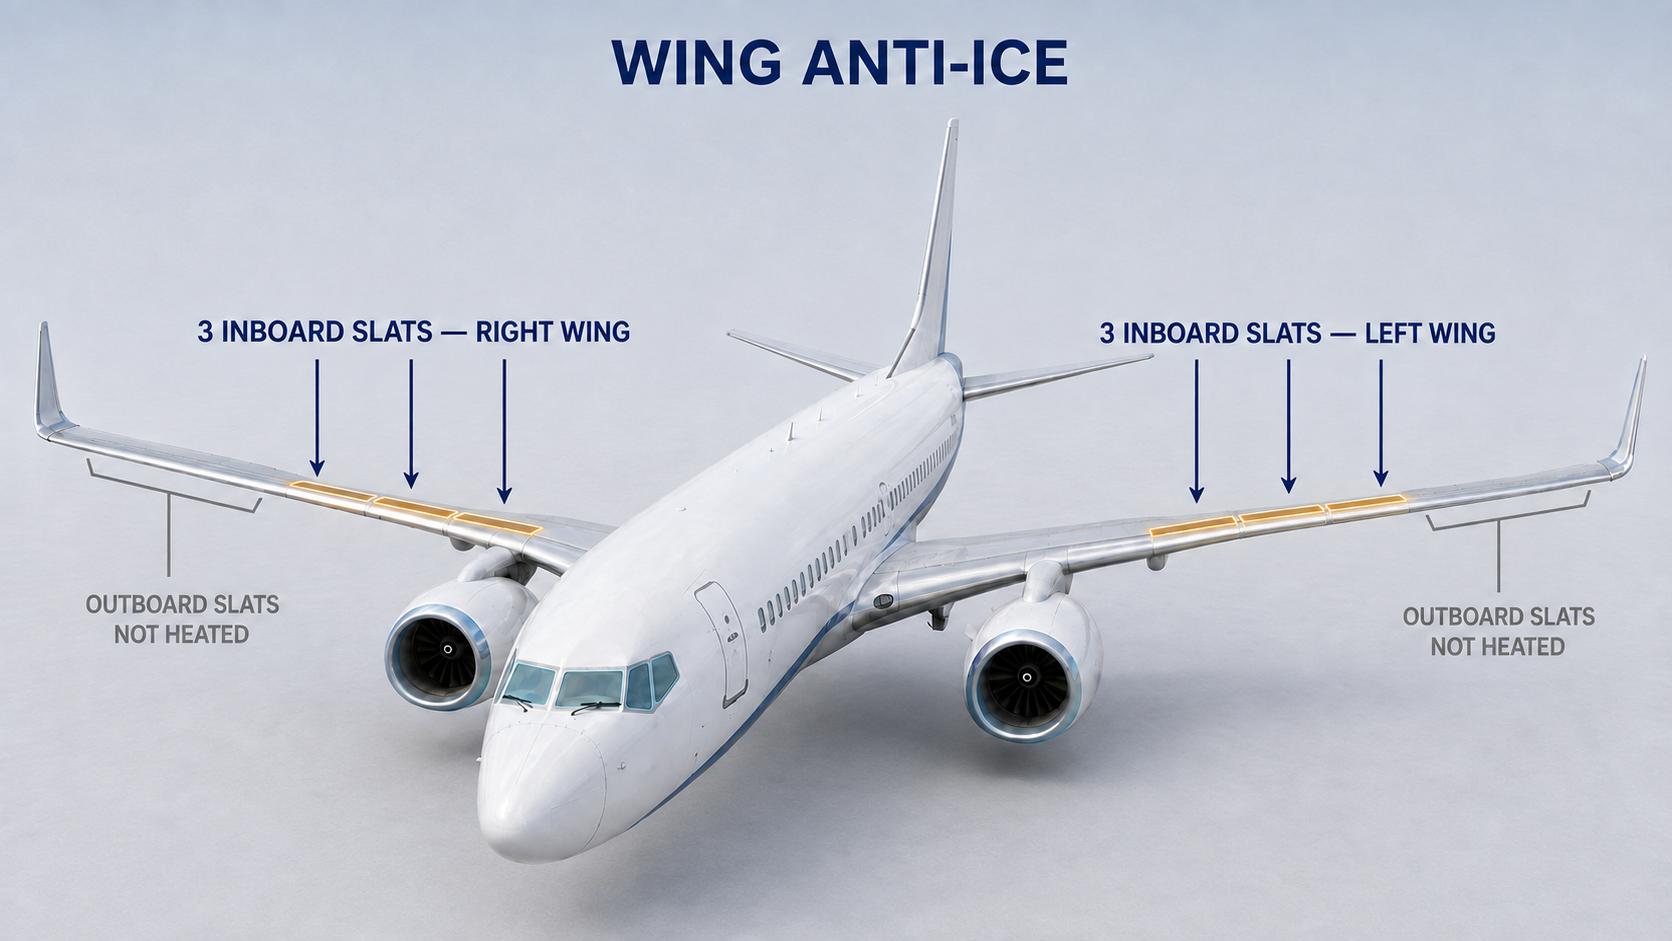
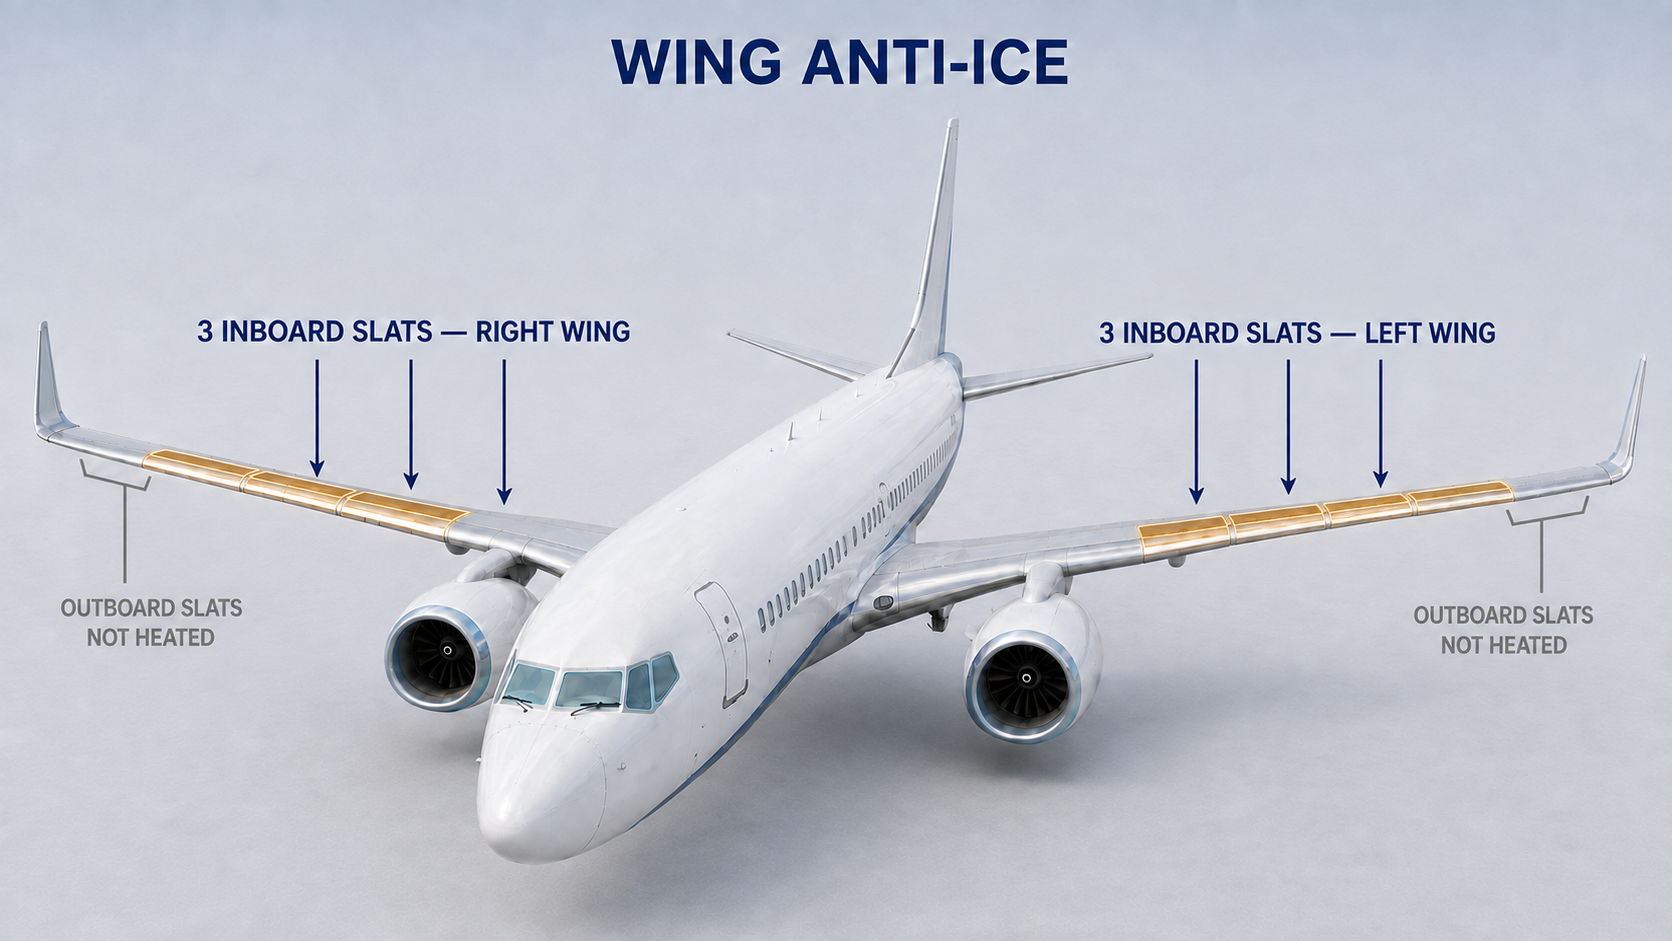
Refine anti-ice indications and imagery

diff --git a/app/systems/anti-ice-rain/page.tsx b/app/systems/anti-ice-rain/page.tsx
@@ -78,7 +78,7 @@ export default function AntiIceRain() {
               <div><strong>ON</strong><p>Illuminated green when heat is being applied to the selected window. It extinguishes when the switch is OFF, an overheat or system failure occurs, or the window reaches the correct temperature and the controller removes power.</p></div>
             </div>
             <p>The spring-loaded <strong>PWR TEST</strong> position provides a confidence test of available window heating. The <strong>OVHT</strong> position simulates an overheat condition.</p>
-            <h3>Warning</h3>
+            <h3>Warning and indications</h3>
             <div className="window-alert-card overheat-card">
               <img src="/images/window-heat-overheat.png" alt="Amber window heat OVERHEAT warning light" />
               <div><strong>OVERHEAT</strong><p>Illuminated amber when the related controller detects an overheat condition. It also illuminates if electrical power to the related window is interrupted. When a real overheat is detected, power to that window is removed automatically.</p></div>
@@ -91,7 +91,7 @@ export default function AntiIceRain() {
           <section className="course-section" id="wipers">
             <span className="section-num">03 / WIPERS</span>
             <h2>Independent left and right wipers clear the forward windows, while a permanent coating helps shed rain.</h2>
-            <div className="selector-strip"><span>PARK</span><span>INT · 7 s</span><span>LOW</span><span>HIGH</span></div>
+            <p>Each wiper selector has four positions: <strong>PARK, INT, LOW and HIGH</strong>.</p>
             <ul className="study-points"><li><strong>PARK:</strong> stops the motor and stows the blade.</li><li><strong>INT:</strong> one sweep cycle approximately every seven seconds.</li><li><strong>LOW / HIGH:</strong> continuous operation at the selected speed.</li></ul>
             <Warning title="DRY WINDSHIELD">Operating the wipers on a dry windshield can scratch the windshield.</Warning>
             <Source>NG 3.10.2, 3.20.4 · MAX 3.10.2, 3.20.3</Source>
@@ -113,7 +113,7 @@ export default function AntiIceRain() {
               <figcaption>Probe heat systems A and B, shown with AUTO / ON switches.</figcaption>
             </figure>
             <Max>The supplied MAX uses AUTO/ON probe-heat switches. Some earlier NG aircraft use OFF/ON switches and therefore have no automatic mode: the crew must select probe heat ON. Later or modified NG aircraft may also use AUTO/ON switches, so the installed panel remains the controlling reference.</Max>
-            <h3>Warning</h3>
+            <h3>Warning and indications</h3>
             <p>An amber probe-heat light means that the related probe or sensor is not being heated. It identifies loss of the expected heating function rather than the presence of ice.</p>
             <Warning title="STANDBY POWER">On standby power, only the captain’s pitot probe is heated. The CAPT PITOT light does not indicate a heater failure while operating in this configuration, and the standby airspeed pitot probe is not heated.</Warning>
             <Deep title="Go deeper · Panel effectivity"><p>The supplied NG FCOM shows both OFF/ON and AUTO/ON panels according to service-bulletin status. Always identify the installed switch positions before applying a memorized flow.</p></Deep>
@@ -134,7 +134,7 @@ export default function AntiIceRain() {
             <p><strong>In flight,</strong> selecting WING ANTI-ICE ON opens both control valves and activates icing stall-warning logic. Duct-temperature and thrust-setting logic do not control valve operation in flight.</p>
             <p><strong>On the ground,</strong> both valves open only while both engines remain below the takeoff-warning thrust setting and both distribution ducts remain below the thermal-switch temperature. High thrust or a hot duct closes the valves; they reopen when both conditions return to normal.</p>
             <p><strong>During takeoff,</strong> advancing either thrust lever above the takeoff-warning setting closes both valves, so wing anti-ice is no longer using bleed air during the takeoff roll. The WING ANTI-ICE switch itself remains ON. At lift-off, when the air/ground logic changes to AIR as the wheels leave the runway, the switch automatically trips to OFF.</p>
-            <h3>Warning</h3>
+            <h3>Warning and indications</h3>
             <p>The valve lights show movement or a disagreement between the selected switch position and the actual position of the related wing anti-ice valve.</p>
             <div className="wing-warning-grid">
               <div className="wing-warning-card ng"><img src="/images/ng-wing-valve-open-lights.png" alt="Blue L VALVE OPEN and R VALVE OPEN lights on the 737 NG" /><div><strong>737 NG · VALVE OPEN</strong><p><b>Dim blue:</b> the related valve is open and agrees with the ON command.</p><p><b>Bright blue:</b> the valve is moving, or its actual position disagrees with the WING ANTI-ICE switch.</p><p><b>Extinguished:</b> the related valve is closed with the switch OFF.</p></div></div>
@@ -156,12 +156,11 @@ export default function AntiIceRain() {
               <figcaption>Engine thermal anti-ice heats the cowl inlet lip. The fan and spinner are not heated.</figcaption>
             </figure>
             <p>The cowl anti-ice air takeoff is upstream of the engine bleed valve. Engine anti-ice therefore remains available when the related engine bleed valve is closed; closing the bleed valve does not isolate the cowl anti-ice supply.</p>
-            <div className="configuration-data"><strong>BLEED-AIR SOURCE</strong><p><strong>737 NG:</strong> air is supplied from the 5th or 9th compressor stage. <strong>737 MAX:</strong> air is supplied from the 4th or 10th compressor stage.</p></div>
-            <Max>The MAX also protects the engine core. The EEC automatically directs bleed air to the core as required from engine and atmospheric data, with no crew input or indication during normal operation.</Max>
+            <Max>On the 737 NG, cowl anti-ice air comes from the 5th or 9th compressor stage and protects the cowl lip. On the 737 MAX, the source is the 4th or 10th compressor stage. The MAX also protects the engine core: the EEC automatically directs bleed air to it as required from engine and atmospheric data, with no crew input or indication during normal operation.</Max>
             <h3>Command</h3>
             <p>One ENG ANTI-ICE switch controls the cowl anti-ice valve on each engine. Selecting ON opens the related valve, supplies hot bleed air to the cowl lip and activates icing stall-warning logic. Selecting OFF closes the valve; normal stall-warning logic returns only if wing anti-ice has not been used in flight.</p>
             <Deep title="Go deeper · MAX idle logic"><p>With engine anti-ice ON, the supplied MAX uses icing idle with flaps UP and approach idle with the flaps extended. With engine anti-ice OFF, it uses flight idle below 15° and approach idle at 15° or more.</p></Deep>
-            <h3>Warning</h3>
+            <h3>Warning and indications</h3>
             <div className="engine-warning-grid">
               <div className="engine-warning-card ng">
                 <img src="/images/ng-engine-anti-ice-lights.png" alt="737 NG COWL ANTI-ICE and blue COWL VALVE OPEN lights" />
@@ -172,7 +171,10 @@ export default function AntiIceRain() {
                 <div><strong>737 MAX</strong><p><b>ENG ANTI-ICE · amber:</b> cowl anti-ice is inhibited by a system failure, or an engine core anti-ice valve has failed closed.</p><p><b>COWL ANTI-ICE · amber:</b> excessive pressure downstream of the cowl anti-ice valve.</p><p><b>COWL VALVE · momentary amber:</b> the valve is in transit.</p><p><b>COWL VALVE · steady amber:</b> valve position disagrees with the switch.</p><p><b>COWL VALVE extinguished:</b> the valve agrees with the commanded open or closed position.</p></div>
               </div>
             </div>
-            <p>The engine display also shows a <strong>green TAI</strong> indication when the cowl valve is open and the related ENG ANTI-ICE switch is ON. An <strong>amber TAI</strong> indicates that valve position does not agree with the switch.</p>
+            <div className="tai-card">
+              <img src="/images/engine-tai-indication.png" alt="Green TAI indication beside the engine N1 display" />
+              <div><strong>TAI · THERMAL ANTI-ICE</strong><p><b>Green:</b> the cowl anti-ice valve is open and the related ENG ANTI-ICE switch is ON.</p><p><b>Amber:</b> the cowl valve position does not agree with the related switch position.</p><p><b>Extinguished:</b> the cowl valve is closed and the related switch is OFF.</p></div>
+            </div>
             <Need title="Cowl lip on NG · cowl and core on MAX"><p>The flight crew directly selects cowl anti-ice. MAX core anti-ice is automatic through the EEC.</p></Need>
             <Source>NG 3.10.4–5, 3.20.5–6 · MAX 3.10.3–4, 3.20.4–6</Source>
           </section>
@@ -182,7 +184,6 @@ export default function AntiIceRain() {
             <h2>The crew must monitor natural ice-accretion cues because the protected surfaces do not provide a single flight-deck ice quantity display.</h2>
             <ul className="study-points"><li><strong>Windshield-wiper area:</strong> visible accumulation around the wiper can provide an early external cue.</li><li><strong>Windshield:</strong> broader accumulation may indicate more severe icing.</li><li><strong>Wing:</strong> inspect the visible leading-edge area and cues identified by the operator.</li></ul>
             <Warning title="VISUAL CUES ARE APPROXIMATE">Ice can accumulate away from the crew’s best viewing area. Use the applicable atmospheric criteria and operating procedure; do not wait for a large visible deposit before applying required anti-ice.</Warning>
-            <Need title="Look outside, then use the procedure"><p>Visual accumulation is one cue. Temperature, visible moisture and the operator’s defined icing criteria determine the required action.</p></Need>
             <Source>Course synthesis sheet · applicable operator procedures</Source>
           </section>
 

diff --git a/app/globals.css b/app/globals.css
@@ -1905,6 +1905,20 @@ summary:focus-visible {
 .engine-warning-card.max { background: #fff7e9; border-color: #e8c982; color: #775000; }
 .engine-warning-card img { display: block; width: 100%; height: auto; }
 .engine-warning-card p { margin: 7px 0 0 !important; }
+.tai-card {
+  display: grid;
+  grid-template-columns: 180px 1fr;
+  gap: 24px;
+  align-items: center;
+  margin: 20px 0;
+  padding: 20px;
+  border: 1px solid #a9d9bd;
+  border-radius: 14px;
+  background: #effaf4;
+  color: #245f3e;
+}
+.tai-card img { display: block; width: 100%; height: auto; border-radius: 5px; }
+.tai-card p { margin: 7px 0 0 !important; }
 .max-alert-overview { display: grid; grid-template-columns: minmax(220px, 310px) 1fr; align-items: center; gap: 22px; margin: 18px 0; padding: 16px; border: 1px solid #cfd8ef; border-radius: 12px; background: #f3f5fc; }
 .max-alert-overview img { display: block; width: 100%; height: auto; }
 .max-alert-overview p { margin: 0 !important; color: #505d7d !important; }
@@ -1917,6 +1931,8 @@ summary:focus-visible {
   .wing-warning-card img { max-width: 240px; }
   .engine-warning-card { grid-template-columns: 1fr; }
   .engine-warning-card img { max-width: 260px; }
+  .tai-card { grid-template-columns: 1fr; }
+  .tai-card img { max-width: 180px; }
 }
 .pump-warning > div > strong {
   color: #9a6500;
